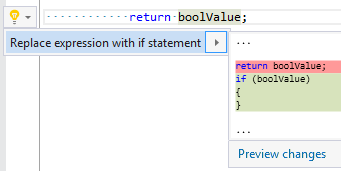
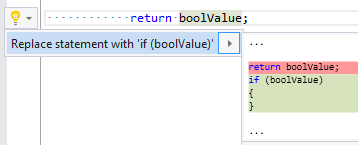
Refactor "ReplaceBooleanExpressionWithIfStatement" refactoring

Changed region(s): [[0.0, 0.0, 1.0, 1.0], [0.7038, 0.8552, 0.9677, 0.9379], [0.6745, 0.9655, 1.0, 0.9931]]

diff --git a/source/Refactorings/Refactorings/ReplaceBooleanExpressionWithIfStatementRefactoring.cs b/source/Refactorings/Refactorings/ReplaceBooleanExpressionWithIfStatementRefactoring.cs
@@ -1,8 +1,10 @@
 // Copyright (c) Josef Pihrt. All rights reserved. Licensed under the Apache License, Version 2.0. See License.txt in the project root for license information.
 
+using System;
 using System.Threading;
 using System.Threading.Tasks;
 using Microsoft.CodeAnalysis;
+using Microsoft.CodeAnalysis.CSharp;
 using Microsoft.CodeAnalysis.CSharp.Syntax;
 using static Microsoft.CodeAnalysis.CSharp.SyntaxFactory;
 
@@ -10,52 +12,37 @@ namespace Pihrtsoft.CodeAnalysis.CSharp.Refactorings
 {
     internal static class ReplaceBooleanExpressionWithIfStatementRefactoring
     {
-        public static async Task<Document> RefactorAsync(
-            Document document,
-            ReturnStatementSyntax returnStatement,
-            CancellationToken cancellationToken = default(CancellationToken))
+        public static void RegisterRefactoring(RefactoringContext context, ReturnStatementSyntax returnStatement)
         {
-            SyntaxNode root = await document.GetSyntaxRootAsync(cancellationToken).ConfigureAwait(false);
-
-            IfStatementSyntax newNode = IfStatement(returnStatement.Expression, Block())
-                .WithTriviaFrom(returnStatement)
-                .WithFormatterAnnotation();
-
-            root = root.ReplaceNode(returnStatement, newNode);
-
-            return document.WithSyntaxRoot(root);
+            RegisterRefactoring(context, returnStatement.Expression);
         }
 
-        public static async Task<Document> RefactorAsync(
-            Document document,
-            YieldStatementSyntax yieldStatement,
-            CancellationToken cancellationToken = default(CancellationToken))
+        public static void RegisterRefactoring(RefactoringContext context, YieldStatementSyntax yieldStatement)
         {
-            SyntaxNode root = await document.GetSyntaxRootAsync(cancellationToken).ConfigureAwait(false);
-
-            IfStatementSyntax newNode = IfStatement(yieldStatement.Expression, Block())
-                .WithTriviaFrom(yieldStatement)
-                .WithFormatterAnnotation();
-
-            root = root.ReplaceNode(yieldStatement, newNode);
-
-            return document.WithSyntaxRoot(root);
+            RegisterRefactoring(context, yieldStatement.Expression);
         }
 
-        public static async Task<Document> RefactorAsync(
+        private static void RegisterRefactoring(RefactoringContext context, ExpressionSyntax expression)
+        {
+            context.RegisterRefactoring(
+                $"Replace statement with 'if ({expression.ToString()})'",
+                cancellationToken => RefactorAsync(context.Document, expression, cancellationToken));
+        }
+
+        private static async Task<Document> RefactorAsync(
             Document document,
-            ExpressionStatementSyntax expressionStatement,
+            ExpressionSyntax expression,
             CancellationToken cancellationToken = default(CancellationToken))
         {
             SyntaxNode root = await document.GetSyntaxRootAsync(cancellationToken).ConfigureAwait(false);
 
-            IfStatementSyntax newNode = IfStatement(expressionStatement.Expression, Block())
-                .WithTriviaFrom(expressionStatement)
+            IfStatementSyntax newNode = IfStatement(expression, Block())
+                .WithTriviaFrom(expression.Parent)
                 .WithFormatterAnnotation();
 
-            root = root.ReplaceNode(expressionStatement, newNode);
+            SyntaxNode newRoot = root.ReplaceNode(expression.Parent, newNode);
 
-            return document.WithSyntaxRoot(root);
+            return document.WithSyntaxRoot(newRoot);
         }
     }
 }

diff --git a/source/Refactorings/Refactorings/ReturnStatementRefactoring.cs b/source/Refactorings/Refactorings/ReturnStatementRefactoring.cs
@@ -33,17 +33,7 @@ namespace Pihrtsoft.CodeAnalysis.CSharp.Refactorings
                             .ConvertedType;
 
                         if (expressionSymbol?.IsBoolean() == true)
-                        {
-                            context.RegisterRefactoring(
-                                "Replace expression with if statement",
-                                cancellationToken =>
-                                {
-                                    return ReplaceBooleanExpressionWithIfStatementRefactoring.RefactorAsync(
-                                        context.Document,
-                                        returnStatement,
-                                        cancellationToken);
-                                });
-                        }
+                            ReplaceBooleanExpressionWithIfStatementRefactoring.RegisterRefactoring(context, returnStatement);
                     }
                 }
                 else if (context.Settings.IsRefactoringEnabled(RefactoringIdentifiers.AddDefaultValueToReturnStatement))

diff --git a/source/Refactorings/Refactorings/YieldReturnStatementRefactoring.cs b/source/Refactorings/Refactorings/YieldReturnStatementRefactoring.cs
@@ -81,17 +81,7 @@ namespace Pihrtsoft.CodeAnalysis.CSharp.Refactorings
                         .ConvertedType;
 
                     if (expressionSymbol?.IsBoolean() == true)
-                    {
-                        context.RegisterRefactoring(
-                            "Replace expression with if statement",
-                            cancellationToken =>
-                            {
-                                return ReplaceBooleanExpressionWithIfStatementRefactoring.RefactorAsync(
-                                    context.Document,
-                                    yieldStatement,
-                                    cancellationToken);
-                            });
-                    }
+                        ReplaceBooleanExpressionWithIfStatementRefactoring.RegisterRefactoring(context, yieldStatement);
                 }
             }
         }
